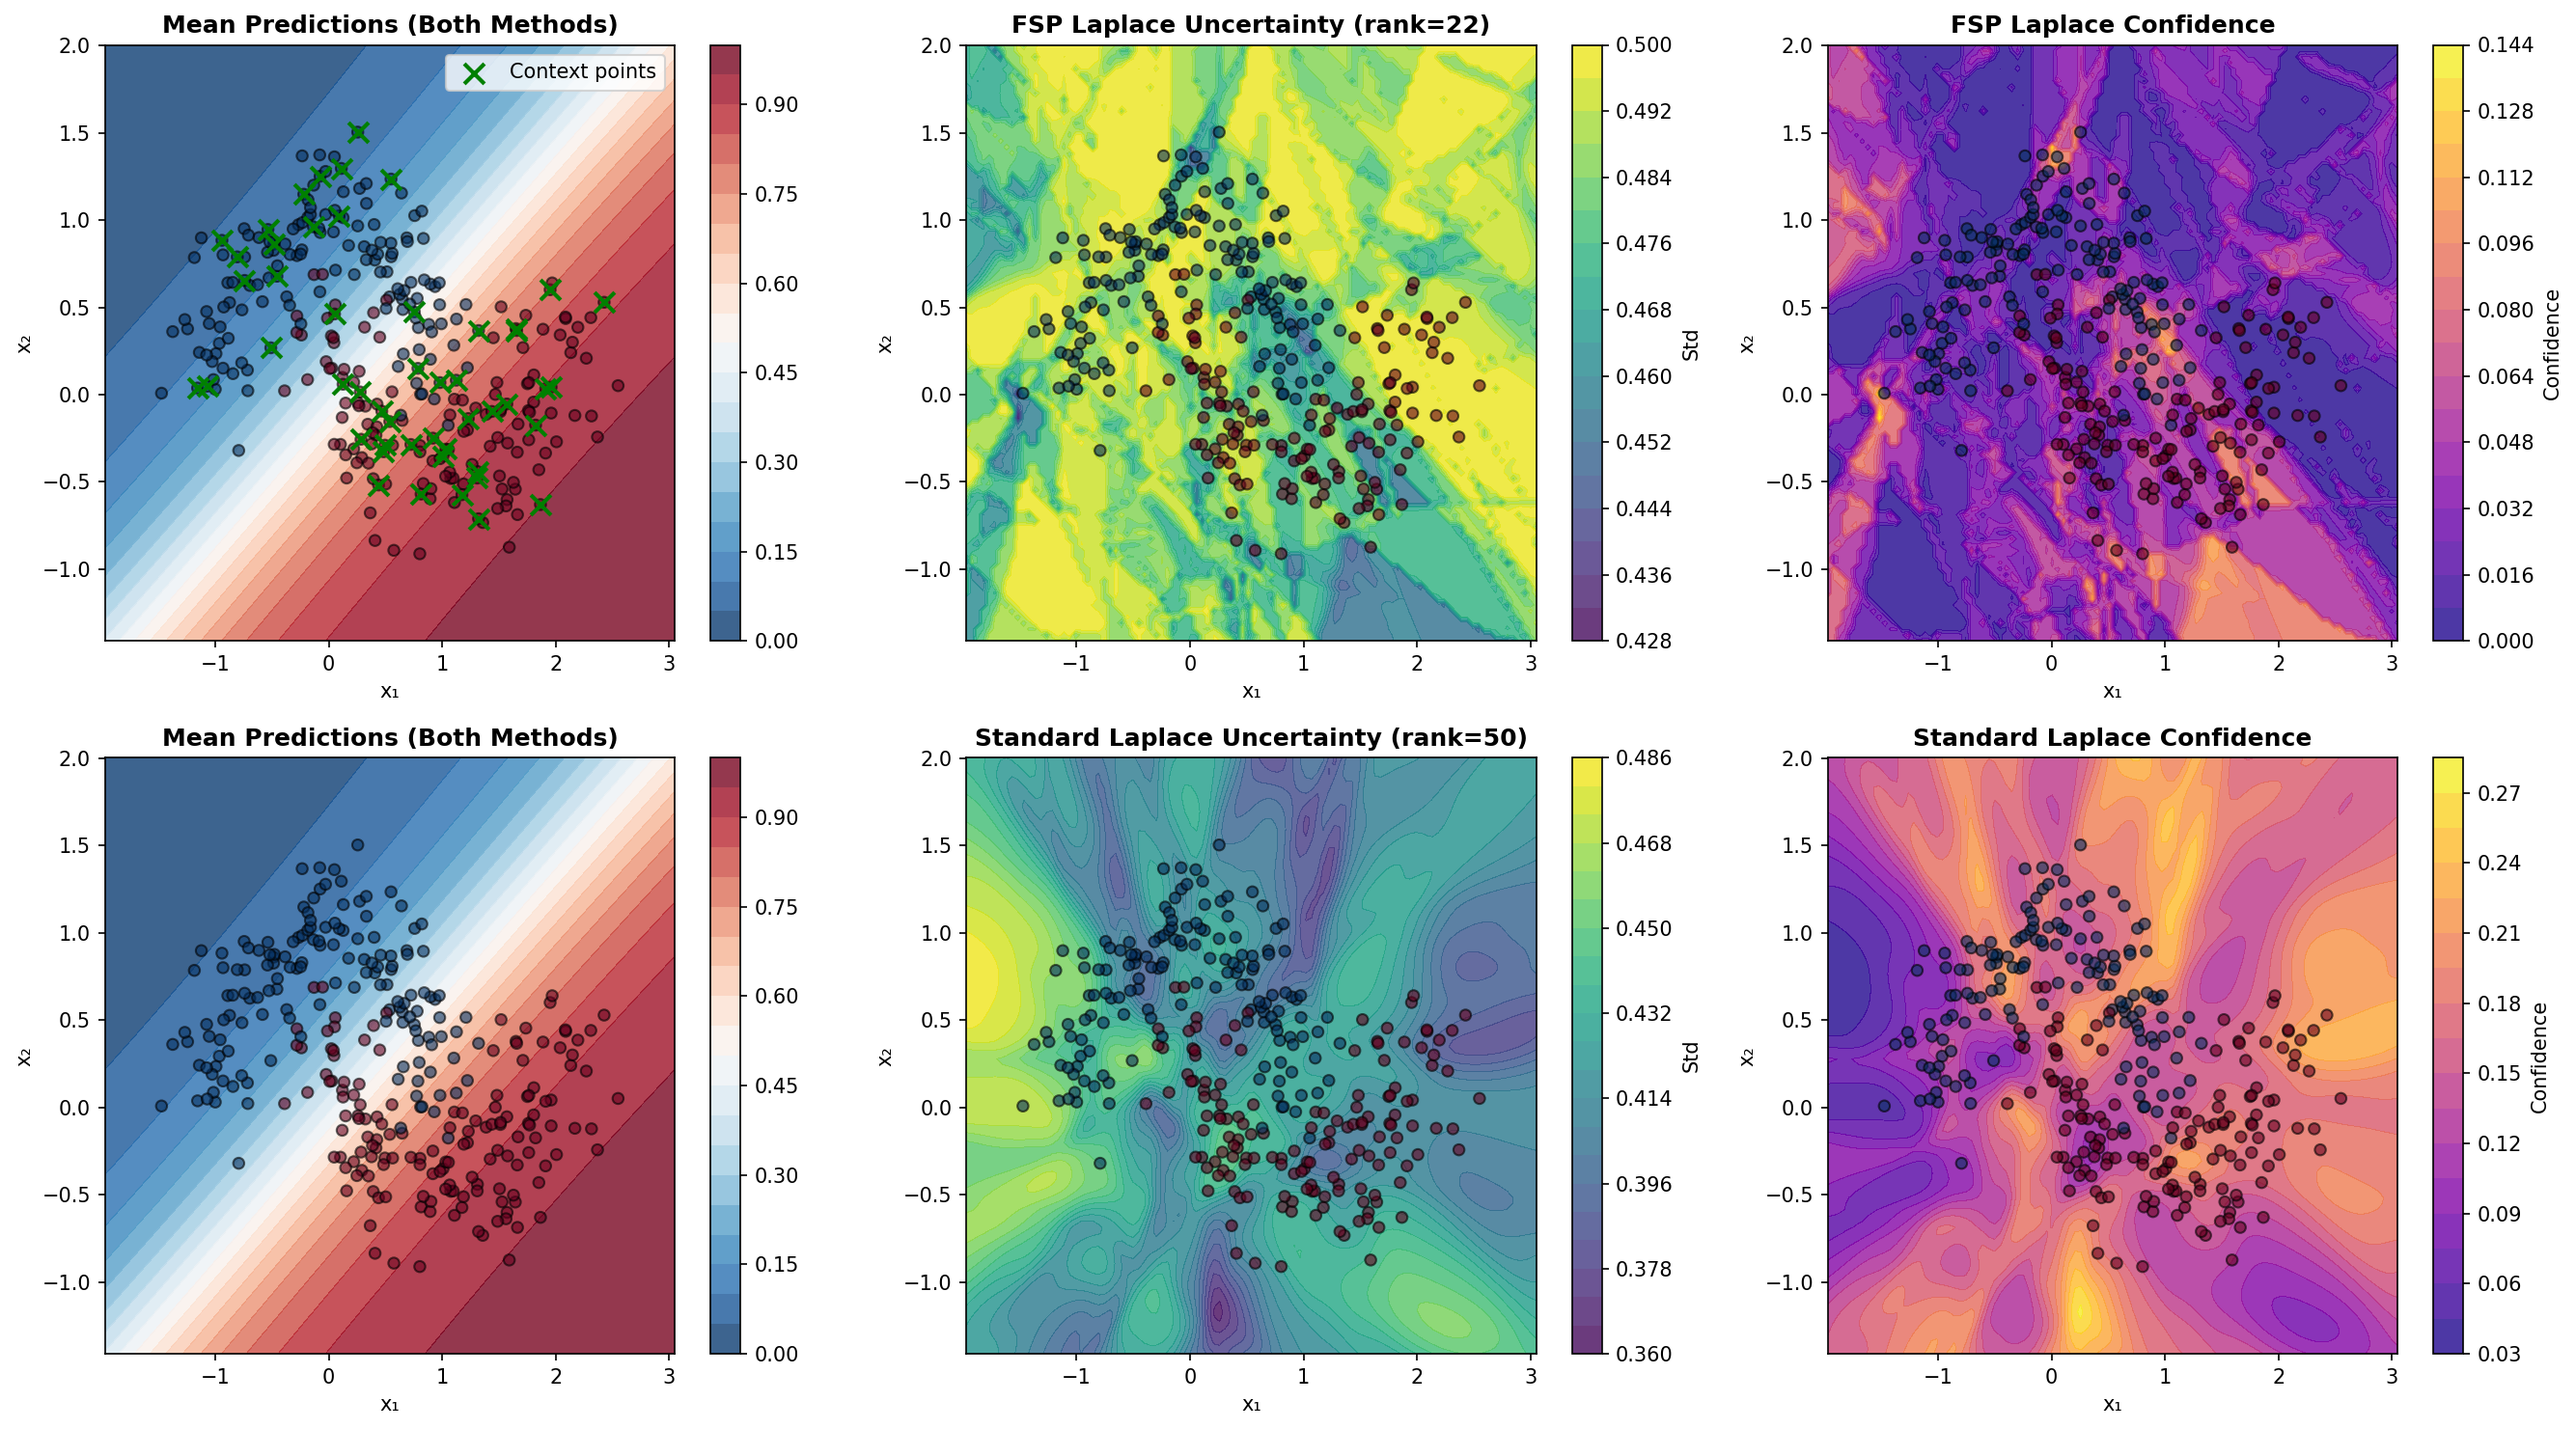
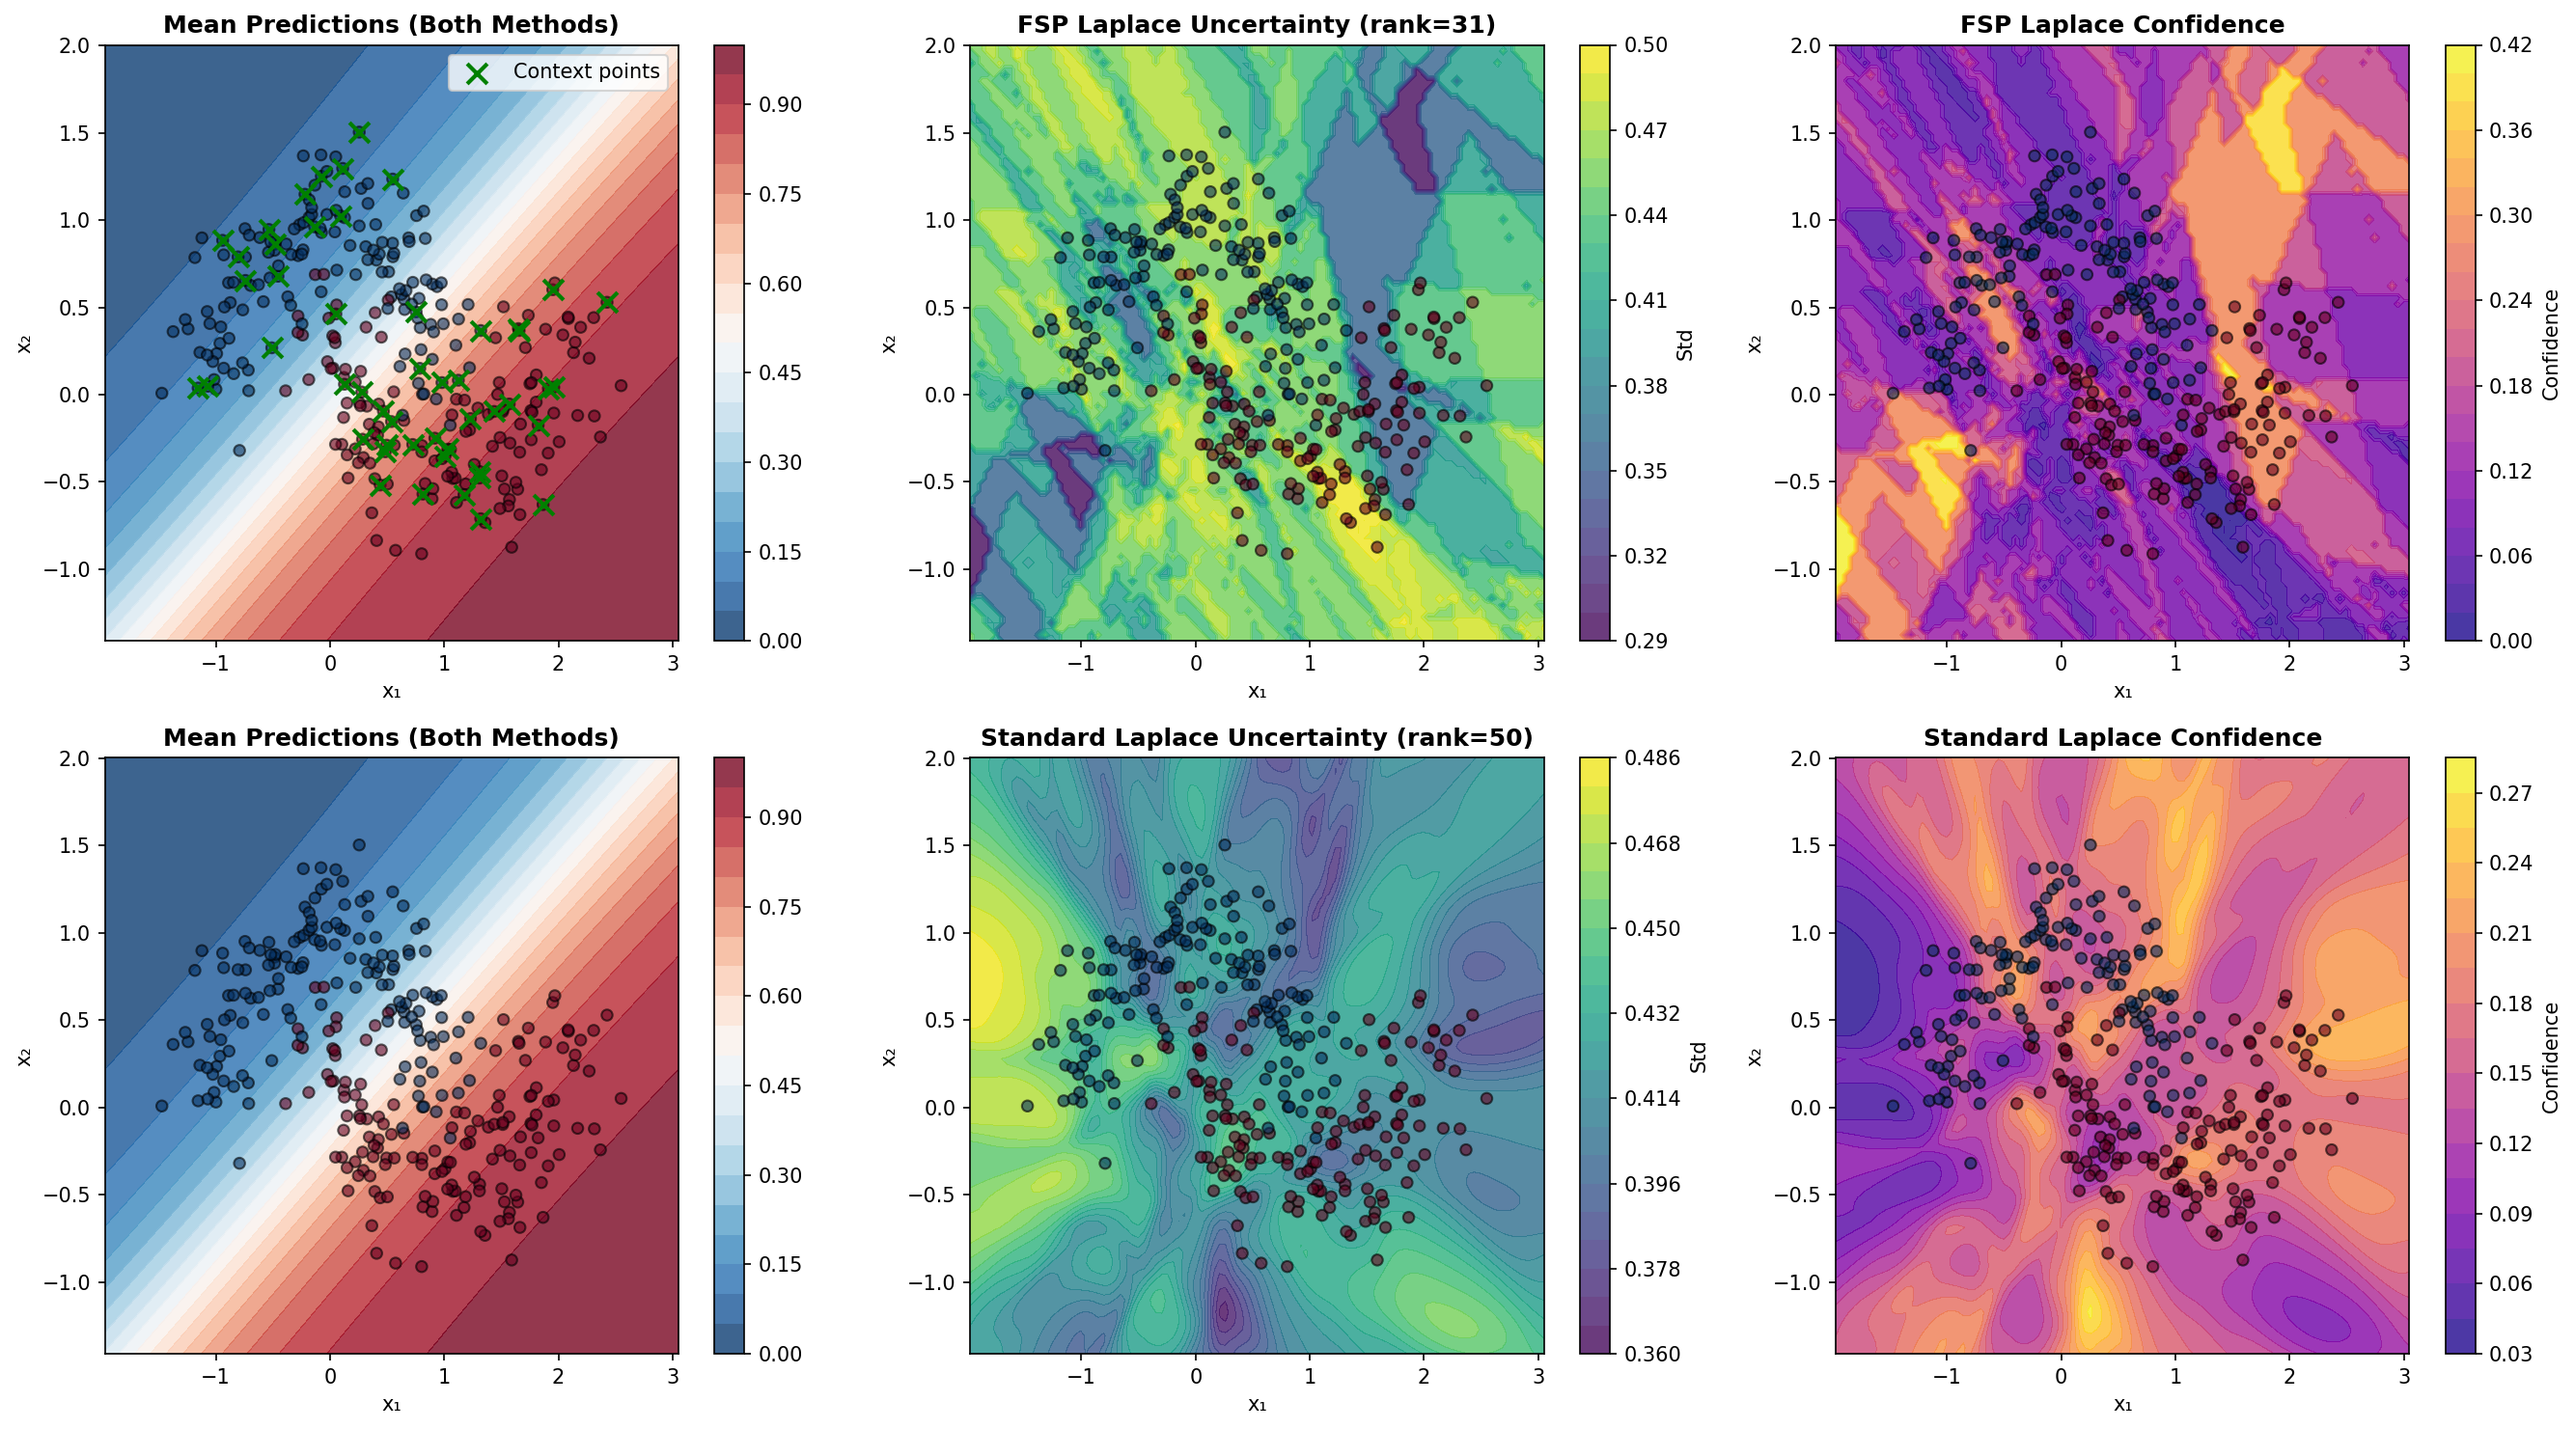
Improve FSP prior variance for better uncertainty estimates
- Reduce kernel variance from 1.0 -> 0.01 for tighter prior
- Add prior variance range logging
- FSP mean uncertainty now 0.426 (closer to standard Laplace's 0.423)
- Min uncertainty improved from 0.429 -> 0.299, showing better structure

diff --git a/examples/two_moons_fsp_classification.py b/examples/two_moons_fsp_classification.py
@@ -152,14 +152,20 @@ def main():
     print("\n4. Computing FSP posterior...")
 
     # Create a simple kernel function (unstructured)
+    # Use smaller prior variance to make it more informative
+    kernel_lengthscale = 0.5
+    kernel_variance = 0.01  # Reduced from 0.1 to make prior tighter
+
     def kernel_fn(v):
         """Kernel matrix-vector product."""
-        K = create_simple_kernel(x_context, lengthscale=1.0, variance=1.0)
+        K = create_simple_kernel(x_context, lengthscale=kernel_lengthscale, variance=kernel_variance)
         return K @ v
 
     # Compute prior variance
-    prior_cov = create_simple_kernel(x_context, lengthscale=1.0, variance=1.0)
+    prior_cov = create_simple_kernel(x_context, lengthscale=kernel_lengthscale, variance=kernel_variance)
     prior_variance = jnp.diag(prior_cov)
+
+    print(f"   Prior variance range: [{prior_variance.min():.4f}, {prior_variance.max():.4f}]")
 
     # Create FSP posterior with unstructured kernel
     posterior = create_fsp_posterior(
